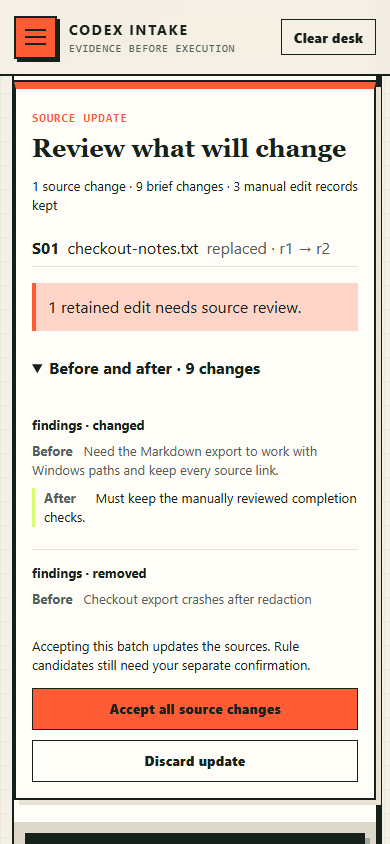
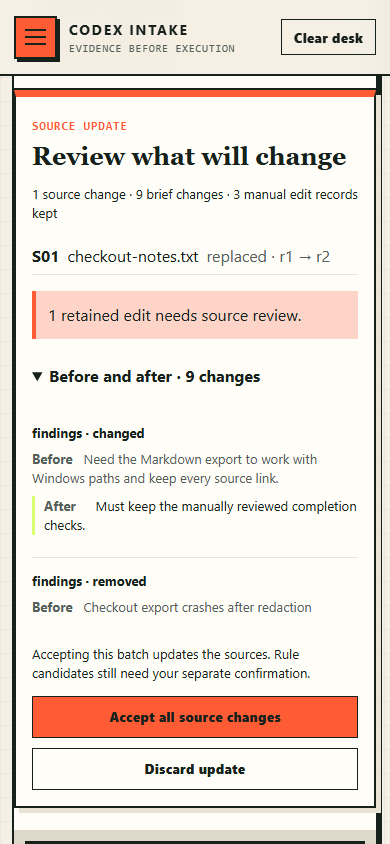
Keep source review below the sticky header across browser layouts

Changed region(s): [[0.0308, 0.4929, 0.9846, 1.0], [0.0308, 0.0924, 0.9846, 0.4005], [0.0615, 0.4313, 0.6769, 0.4621]]

diff --git a/tests/e2e/source-updates.spec.js b/tests/e2e/source-updates.spec.js
@@ -137,9 +137,11 @@ for (const width of [1440, 390]) {
     await expect(page.locator("#export-bar")).toBeHidden();
     await expect(page.locator("#toast")).not.toHaveClass(/toast-visible/);
     await page.locator("#source-update-review").evaluate(element => element.scrollIntoView({ block: "start", behavior: "instant" }));
-    const heading = await page.locator(".update-heading").boundingBox();
-    const header = await page.locator(".topbar").boundingBox();
-    expect(heading.y).toBeGreaterThanOrEqual(header.y + header.height);
+    await expect.poll(async () => {
+      const heading = await page.locator(".update-heading").boundingBox();
+      const header = await page.locator(".topbar").boundingBox();
+      return heading.y - (header.y + header.height);
+    }).toBeGreaterThanOrEqual(0);
     await expect(page.locator("#accept-source-update")).toBeInViewport();
     await expect(page.locator("#discard-source-update")).toBeInViewport();
     expect(await page.locator("#accept-source-update").evaluate(button => {

diff --git a/src/main.js b/src/main.js
@@ -148,7 +148,9 @@ function stageSourceInputs(nextInputs, message) {
   elements.toast.classList.remove("toast-visible");
   hideComposer();
   render();
-  document.querySelector("#source-update-review").scrollIntoView({ behavior: "smooth", block: "start" });
+  const review = document.querySelector("#source-update-review");
+  review.style.scrollMarginTop = `${document.querySelector(".topbar").getBoundingClientRect().height + 14}px`;
+  review.scrollIntoView({ behavior: "auto", block: "start" });
   document.querySelector("#accept-source-update").focus({ preventScroll: true });
 }
 
@@ -182,6 +184,7 @@ function undoSourceUpdate() {
 }
 
 function renderSourceUpdate() {
+  document.documentElement.classList.toggle("has-source-update", Boolean(pendingUpdate));
   document.body.classList.toggle("has-source-update", Boolean(pendingUpdate));
   const panel = document.querySelector("#source-update-review");
   panel.hidden = !pendingUpdate;

diff --git a/src/styles.css b/src/styles.css
@@ -1374,6 +1374,8 @@ body.trace-active .source-card.trace-dim { filter: grayscale(.65); }
 .update-actions { display: flex; gap: 10px; flex-wrap: wrap; }
 .update-actions .button { flex: 0 1 auto; white-space: normal; min-width: 0; overflow-wrap: anywhere; }
 .has-source-update .toast { display: none; }
+body.has-source-update { overflow-anchor: none; }
+html.has-source-update { scroll-behavior: auto; overflow-anchor: none; }
 .source-update-undo { display: flex; justify-content: space-between; gap: 12px; flex-wrap: wrap; align-items: center; padding: 14px; margin: 0 0 18px; background: var(--acid); border: 1px solid var(--ink); font-size: 12px; line-height: 1.5; }
 .criterion-meta, .finding-meta { grid-column: 2 / -1; display: flex; gap: 9px; align-items: center; flex-wrap: wrap; min-width: 0; }
 .criterion-meta > small { display: flex; align-items: center; gap: 4px; flex-wrap: wrap; }

diff --git a/CHANGELOG.md b/CHANGELOG.md
@@ -8,6 +8,7 @@
 - Keep manual edits made after acceptance when Undo restores earlier sources; discard late OCR results after the desk is cleared.
 - Export schema 1.1 with review states and historical source metadata; raw bodies remain omitted and detected values masked.
 - Keep review actions visible on desktop and narrow screens, with pending exports hidden; restrict unit-test discovery to the canonical tests directory.
+- Use immediate source-review navigation and disable scroll anchoring while reviewing, preventing the narrow-screen heading from sliding under the sticky header during source replacement.
 
 ## Publication preparation — 2026-09-05
 
